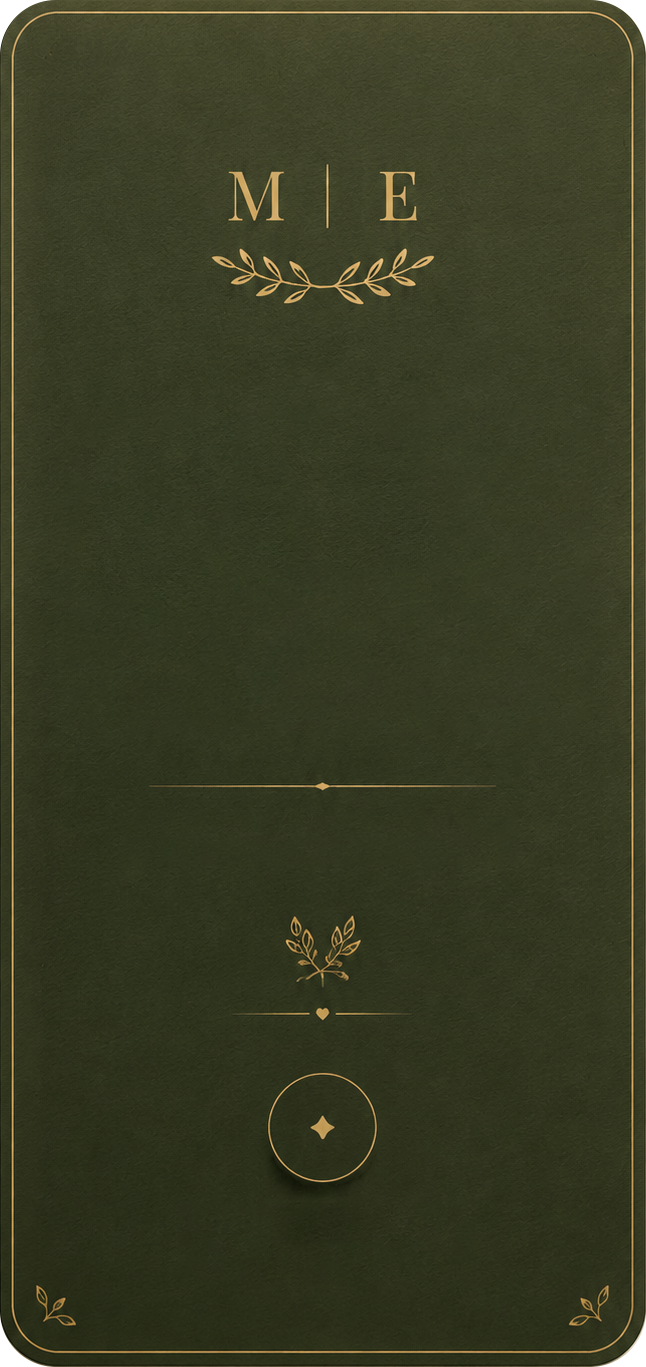
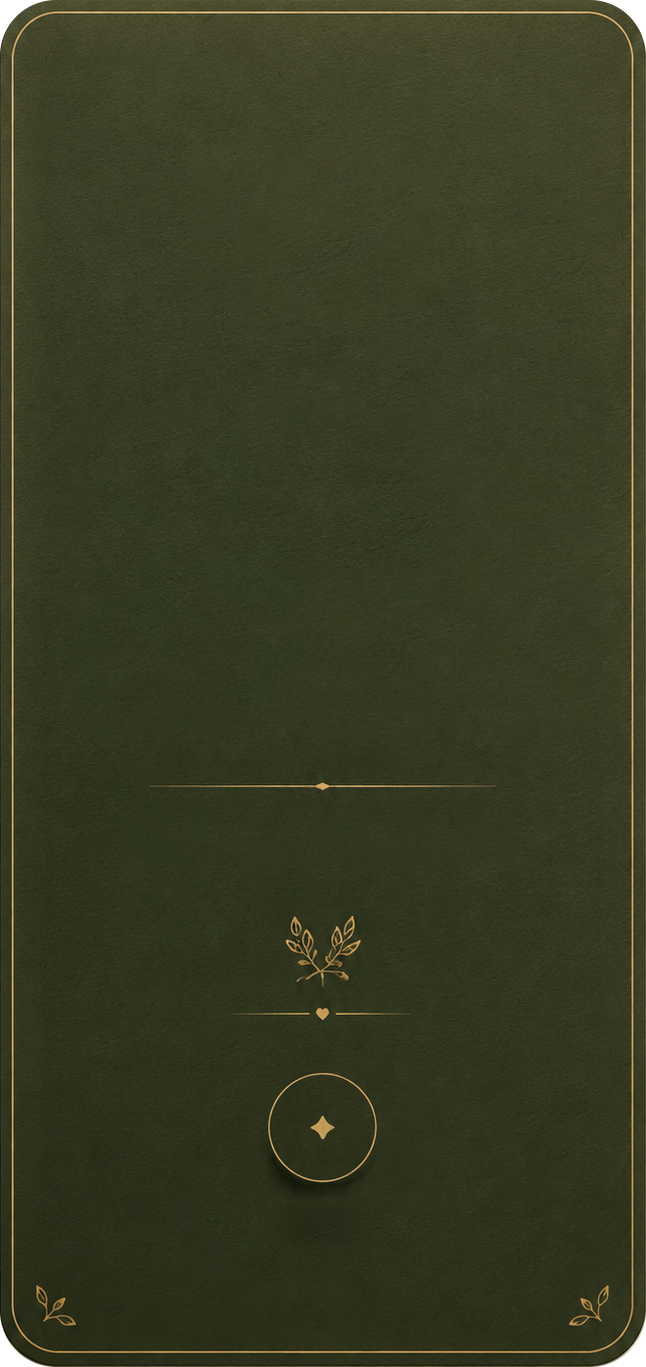
lffed

Changed region(s): [[0.3406, 0.1229, 0.6811, 0.2458], [0.4954, 0.1229, 0.5263, 0.1536]]

diff --git a/app/components/InvitationIntro.jsx b/app/components/InvitationIntro.jsx
@@ -11,10 +11,8 @@ export default function InvitationIntro({ guest }) {
   useEffect(() => {
     setIsClient(true);
     if (guest) {
-      // Prevent scrolling while intro is open
       document.body.style.overflow = 'hidden';
     } else {
-      // General homepage without guest: no intro needed, just open
       setIsOpen(true); 
     }
   }, [guest]);
@@ -61,14 +59,13 @@ export default function InvitationIntro({ guest }) {
             initial={{ opacity: 0, scale: 0.96, y: 20 }}
             animate={
               isClicked 
-                ? { scale: 1.02, y: -30, rotateX: 8, opacity: 0 }
+                ? { scale: 1.03, y: 15, opacity: 0 }
                 : { opacity: 1, scale: 1, y: 0 }
             }
             transition={{ 
               duration: isClicked ? 1.2 : 1, 
               ease: [0.25, 1, 0.5, 1] 
             }}
-            style={{ transformStyle: 'preserve-3d', perspective: 1000 }}
             className="relative w-full max-w-[420px] md:max-w-[460px] aspect-[9/18] mx-4 cursor-pointer"
             onClick={handleOpen}
           >
@@ -78,67 +75,110 @@ export default function InvitationIntro({ guest }) {
               style={{ backgroundImage: "url('/card-cool.png')" }}
             />
 
-            {/* Dynamic Content Overlay */}
-            <div className="relative z-10 w-full h-full flex flex-col justify-between items-center text-center pt-[25%] pb-[15%] px-8">
+            {/* Dynamic Content Overlay (Absolute Positions) */}
+            <div className="absolute inset-0 z-10 w-full h-full text-center">
               
-              <div className="flex flex-col items-center justify-center w-full mt-4">
-                {/* INVITACIÓN PARA */}
-                <motion.div
-                  initial={{ opacity: 0 }}
-                  animate={{ opacity: 1 }}
-                  transition={{ delay: 0.4, duration: 1 }}
-                  className="text-[#F5F1E8] font-inter text-[10px] md:text-xs uppercase tracking-[0.25em] mb-8"
-                >
-                  Invitación para
-                </motion.div>
-
-                {/* Guest Name */}
-                <motion.div
-                  initial={{ opacity: 0, scale: 0.95 }}
-                  animate={{ opacity: 1, scale: 1 }}
-                  transition={{ delay: 0.6, duration: 1 }}
-                  className="font-playfair text-3xl md:text-4xl text-[#F5F1E8] font-normal leading-tight w-full drop-shadow-sm"
-                >
-                  {guest.displayName.includes(' & ') ? (
-                    <>
-                      <span className="block">{guest.displayName.split(' & ')[0]}</span>
-                      <span className="text-xl md:text-2xl text-[#C8A96B] block my-3 italic">&</span>
-                      <span className="block">{guest.displayName.split(' & ')[1]}</span>
-                    </>
-                  ) : (
-                    <span className="block">{guest.displayName}</span>
-                  )}
-                </motion.div>
-
-                {/* Passes */}
-                <motion.div
-                  initial={{ opacity: 0 }}
-                  animate={{ opacity: 1 }}
-                  transition={{ delay: 0.8, duration: 1 }}
-                  className="text-[#C8A96B] font-inter text-[10px] md:text-xs uppercase tracking-[0.2em] mt-10"
-                >
-                  {guest.passes} {guest.passes === 1 ? 'pase reservado' : 'pases reservados'}
-                </motion.div>
-              </div>
-
-              {/* Bottom Action Area */}
-              <div className="flex flex-col items-center justify-end h-32 w-full">
-                {/* Invisible pulse over the visual button of the image, or a slight glow if clicked */}
-                <motion.div
-                  animate={isClicked ? { scale: [1, 1.2, 1], opacity: [1, 0.5, 1] } : {}}
-                  transition={{ duration: 0.4 }}
-                  className="w-16 h-16 rounded-full mb-6 flex items-center justify-center"
+              {/* Logo (Top 11%) */}
+              <div 
+                className="absolute w-full flex justify-center"
+                style={{ top: '11%' }}
+              >
+                <div 
+                  className="w-[100px] h-[80px] md:w-[110px] bg-[#C29A56]"
+                  style={{
+                    WebkitMaskImage: "url('/logo.png')",
+                    WebkitMaskSize: "contain",
+                    WebkitMaskRepeat: "no-repeat",
+                    WebkitMaskPosition: "center",
+                    maskImage: "url('/logo.png')",
+                    maskSize: "contain",
+                    maskRepeat: "no-repeat",
+                    maskPosition: "center",
+                  }}
                 />
-                {/* Toca para abrir */}
-                <motion.div
-                  initial={{ opacity: 0 }}
-                  animate={{ opacity: 1 }}
-                  transition={{ delay: 1, duration: 1 }}
-                  className="text-[#F5F1E8] font-inter text-[9px] md:text-[10px] uppercase tracking-[0.25em]"
-                >
-                  Toca para abrir tu invitación
-                </motion.div>
               </div>
+
+              {/* INVITACIÓN PARA (Top 27%) */}
+              <motion.div
+                initial={{ opacity: 0 }}
+                animate={{ opacity: 1 }}
+                transition={{ delay: 0.4, duration: 1 }}
+                className="absolute w-full text-[#F5F1E8] font-inter text-[10px] md:text-xs uppercase tracking-[0.25em]"
+                style={{ top: '27%' }}
+              >
+                Invitación para
+              </motion.div>
+
+              {/* Guest Names Handling */}
+              {guest.displayName.includes(' & ') ? (
+                <>
+                  {/* Nombre 1 (Top 32%) */}
+                  <motion.div
+                    initial={{ opacity: 0, y: 10 }}
+                    animate={{ opacity: 1, y: 0 }}
+                    transition={{ delay: 0.6, duration: 1 }}
+                    className="absolute w-full font-playfair text-[28px] md:text-3xl text-[#F5F1E8] font-normal leading-tight px-4"
+                    style={{ top: '32%' }}
+                  >
+                    {guest.displayName.split(' & ')[0]}
+                  </motion.div>
+
+                  {/* & (Top 39%) */}
+                  <motion.div
+                    initial={{ opacity: 0 }}
+                    animate={{ opacity: 1 }}
+                    transition={{ delay: 0.7, duration: 1 }}
+                    className="absolute w-full font-playfair text-xl md:text-2xl text-[#C29A56] italic"
+                    style={{ top: '39%' }}
+                  >
+                    &
+                  </motion.div>
+
+                  {/* Nombre 2 (Top 43%) */}
+                  <motion.div
+                    initial={{ opacity: 0, y: 10 }}
+                    animate={{ opacity: 1, y: 0 }}
+                    transition={{ delay: 0.8, duration: 1 }}
+                    className="absolute w-full font-playfair text-[28px] md:text-3xl text-[#F5F1E8] font-normal leading-tight px-4"
+                    style={{ top: '43%' }}
+                  >
+                    {guest.displayName.split(' & ')[1]}
+                  </motion.div>
+                </>
+              ) : (
+                /* Single Name (Top 37% approx) */
+                <motion.div
+                  initial={{ opacity: 0, y: 10 }}
+                  animate={{ opacity: 1, y: 0 }}
+                  transition={{ delay: 0.6, duration: 1 }}
+                  className="absolute w-full font-playfair text-[28px] md:text-3xl text-[#F5F1E8] font-normal leading-tight px-4"
+                  style={{ top: '37%' }}
+                >
+                  {guest.displayName}
+                </motion.div>
+              )}
+
+              {/* Passes (Top 51%) */}
+              <motion.div
+                initial={{ opacity: 0 }}
+                animate={{ opacity: 1 }}
+                transition={{ delay: 0.9, duration: 1 }}
+                className="absolute w-full text-[#C29A56] font-inter text-[10px] md:text-xs uppercase tracking-[0.2em]"
+                style={{ top: '51%' }}
+              >
+                {guest.passes} {guest.passes === 1 ? 'pase reservado' : 'pases reservados'}
+              </motion.div>
+
+              {/* Action (Bottom 7%) */}
+              <motion.div
+                initial={{ opacity: 0 }}
+                animate={{ opacity: 1 }}
+                transition={{ delay: 1, duration: 1 }}
+                className="absolute w-full text-[#F5F1E8] font-inter text-[9px] md:text-[10px] uppercase tracking-[0.25em]"
+                style={{ bottom: '7%' }}
+              >
+                Toca para abrir tu invitación
+              </motion.div>
 
             </div>
           </motion.div>
